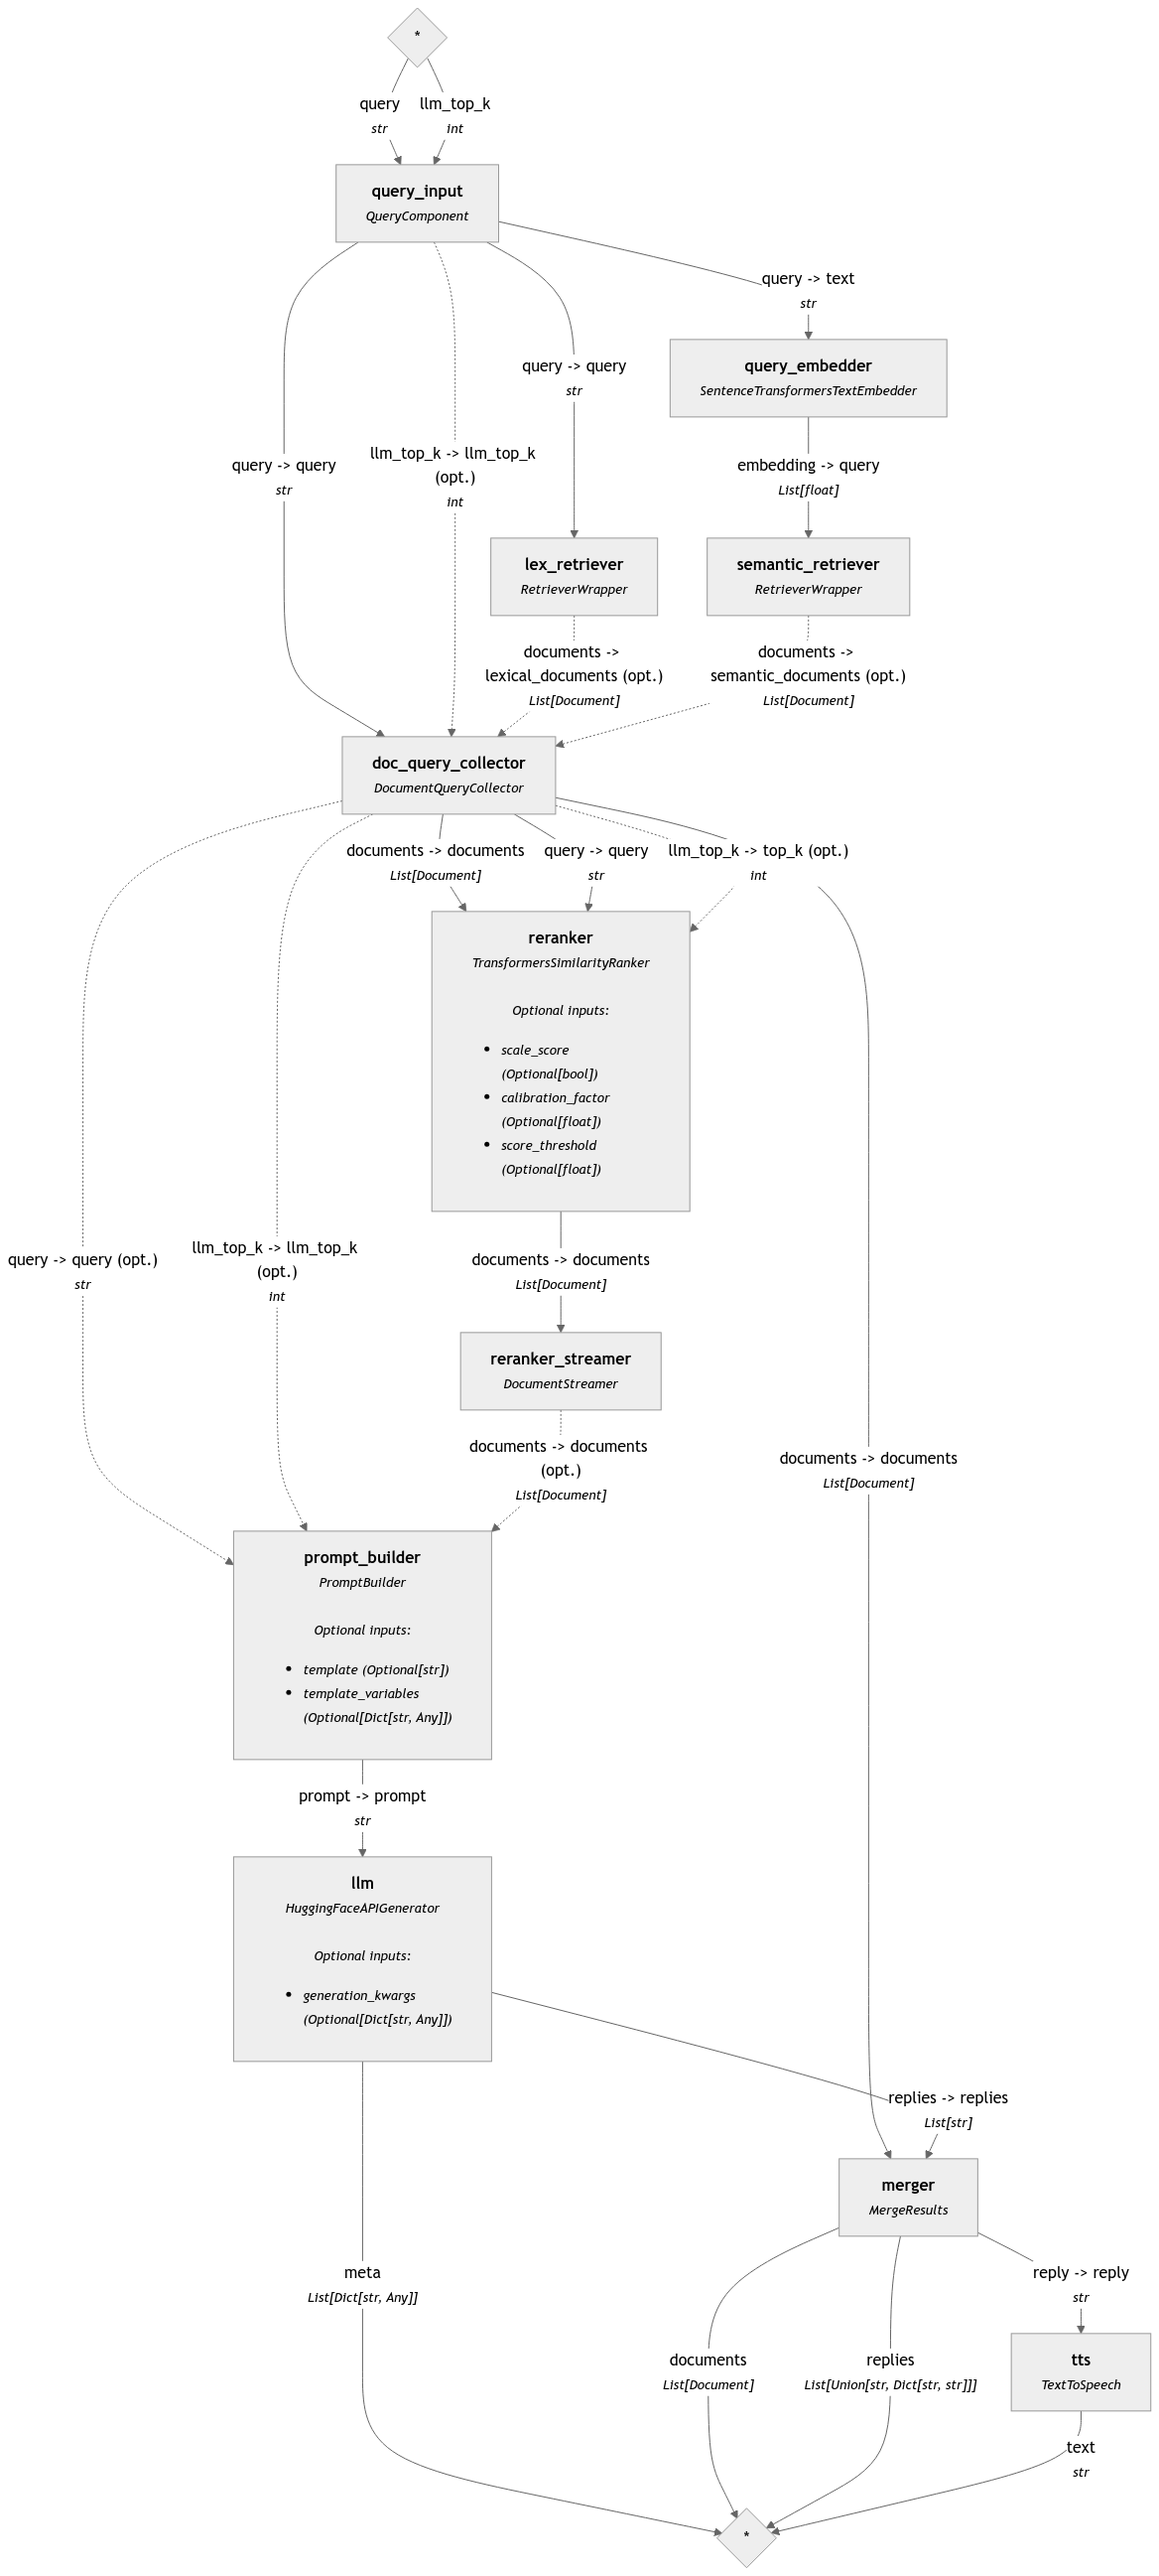
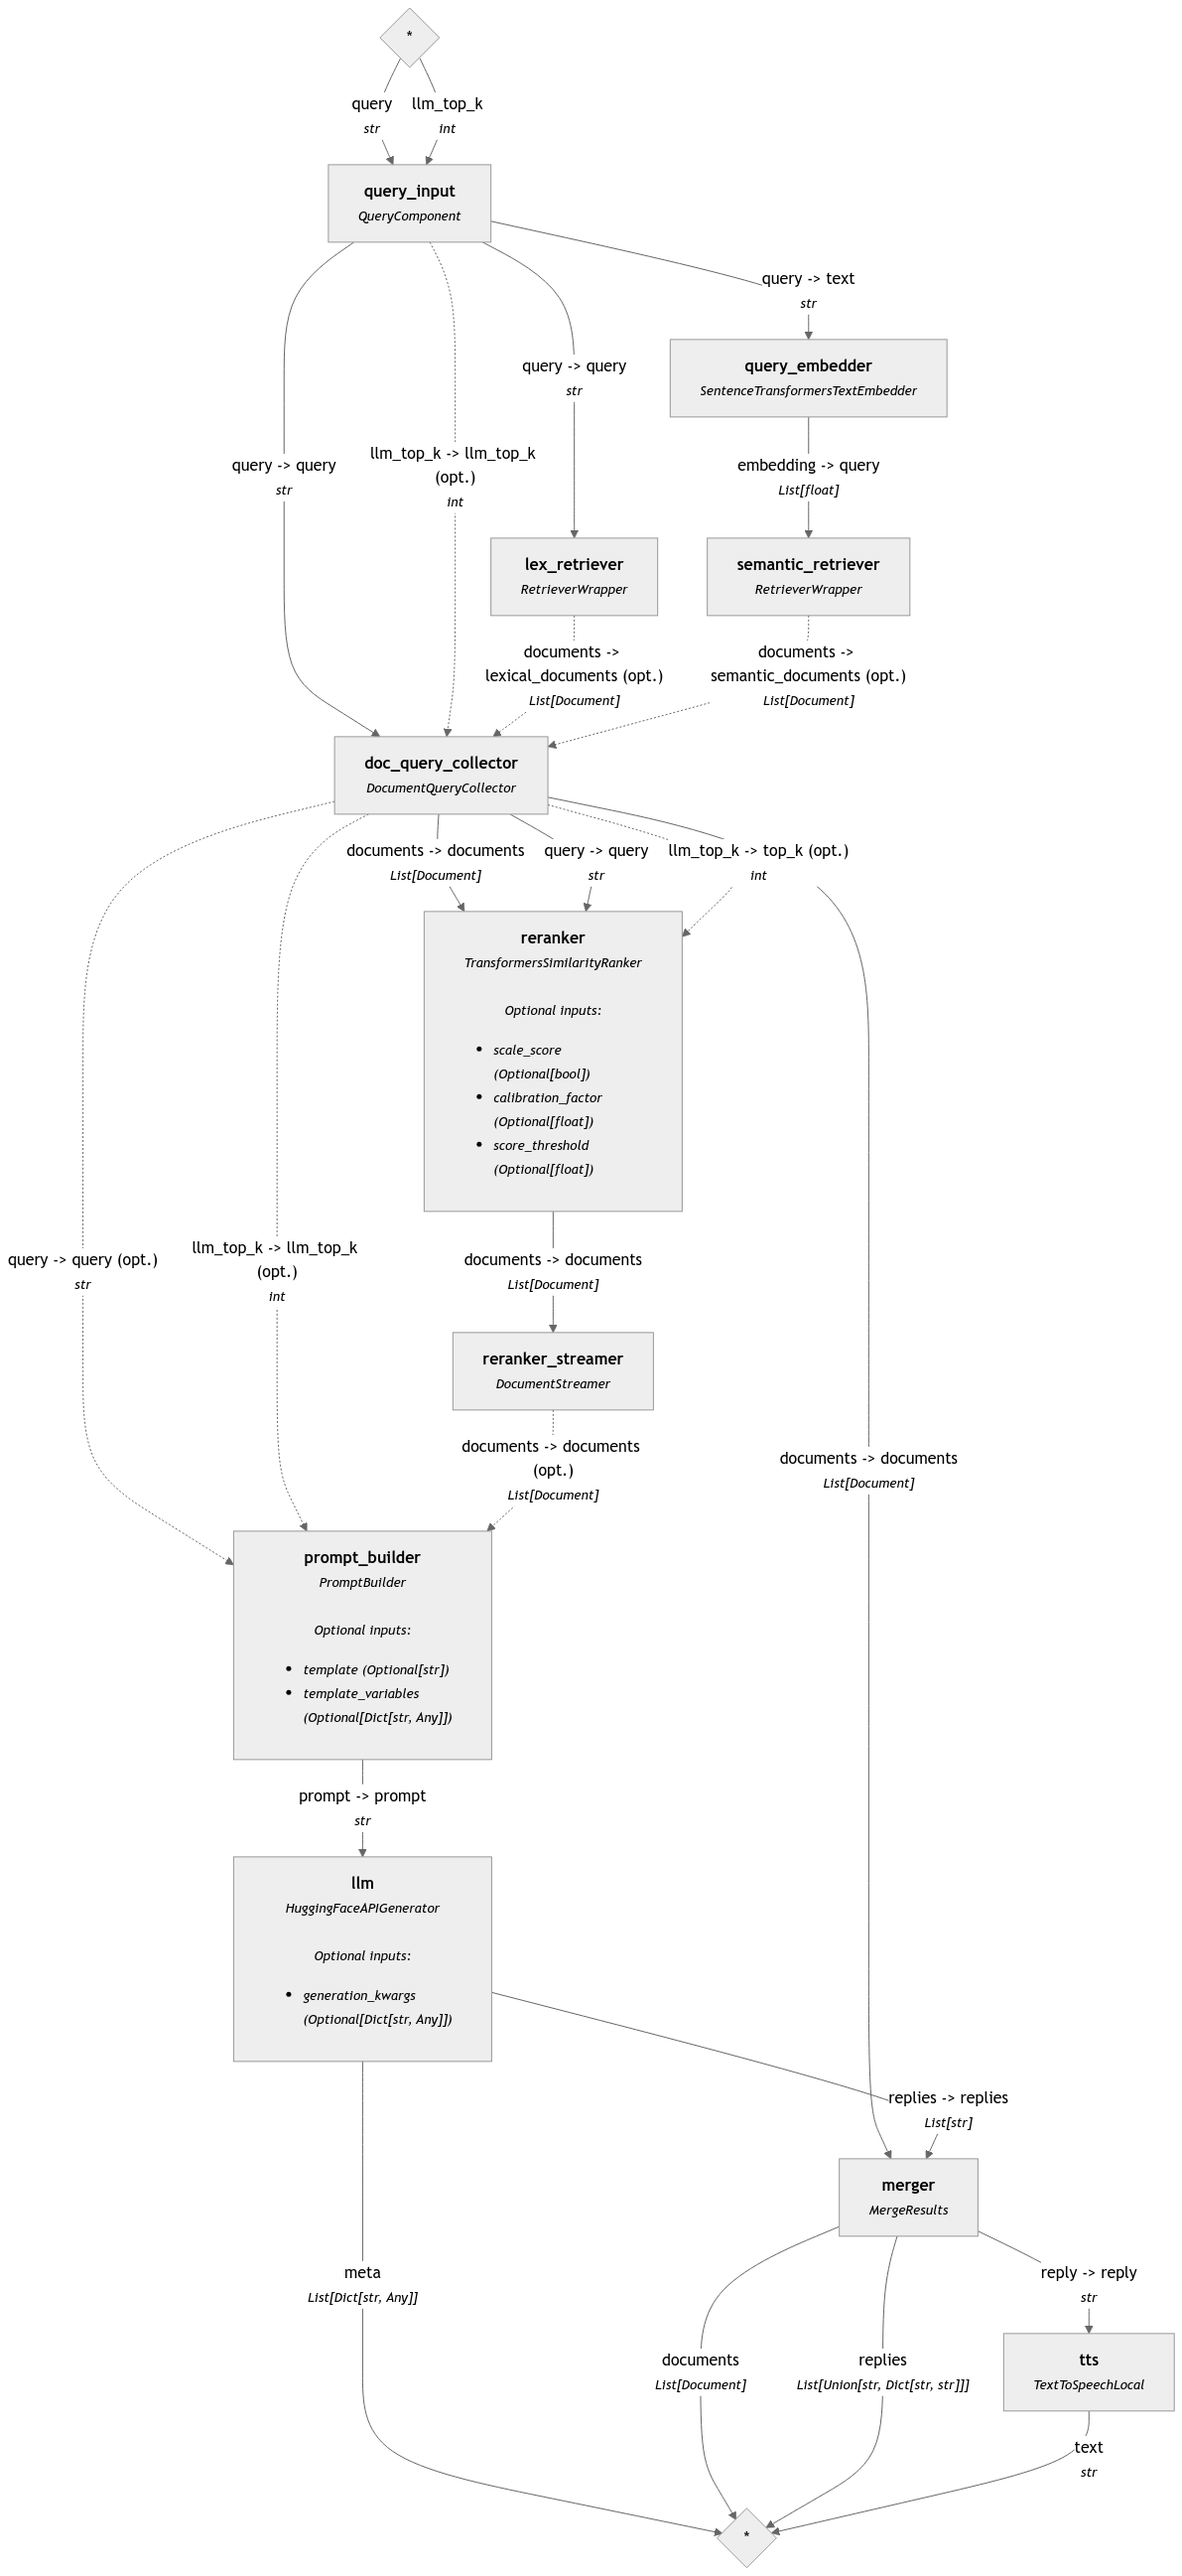
Attempting to do a Hugging Face API

diff --git a/custom_haystack_components.py b/custom_haystack_components.py
@@ -24,10 +24,12 @@ from pathlib import Path
 from pypdf import PdfReader, DocumentInformation
 import pymupdf4llm
 import pymupdf
-from transformers import pipeline, AutoProcessor, BarkModel
+from transformers import AutoProcessor, BarkModel
 import sounddevice as sd
 import numpy as np
 import torch
+import requests
+import generator_model as gen
 # import markdown
 
 
@@ -71,6 +73,46 @@ def _print_hierarchy(data: Dict[str, Any], level: int) -> None:
 @component
 class TextToSpeech:
     def __init__(self, model_name_or_path: str = "suno/bark-small"):
+        # Initialize with Hugging Face API token and model name
+        self.api_url = f"https://api-inference.huggingface.co/models/{model_name_or_path}"
+        hf_secret: str = gen.get_secret(r'D:\Documents\Secrets\huggingface_secret.txt')  # Put your path here
+        self.headers = {"Authorization": f"Bearer {hf_secret}"}
+
+    @component.output_types(text=str)
+    def run(self, reply: str) -> Dict[str, Any]:
+        # Split the input text into sentences
+        sentences: List[str] = re.split(r'(?<=[.!?])\s+', reply.strip())
+
+        # Process each sentence and request audio generation via API
+        for sentence in sentences:
+            payload = {
+                "inputs": {
+                    "text": sentence,
+                    "voice_preset": "v2/de_speaker_0"
+                }
+            }
+
+            # Send request to Hugging Face Inference API
+            response = requests.post(self.api_url, headers=self.headers, json=payload)
+            response.raise_for_status()  # Raise an error if the request fails
+
+            # Extract and process the audio output
+            audio_array = np.frombuffer(response.content, dtype=np.float32)
+            self._play_audio(audio_array)
+
+        # Return the original text
+        return {"text": reply}
+
+    @staticmethod
+    def _play_audio(audio_data: np.ndarray, sample_rate: int = 24000) -> None:
+        audio_data = audio_data.astype("float32")
+        sd.play(audio_data, samplerate=sample_rate)
+        sd.wait()  # Wait until the audio finishes playing
+
+
+@component
+class TextToSpeechLocal:
+    def __init__(self, model_name_or_path: str = "suno/bark-small"):
         # Initialize the processor
         self.device = "cuda" if torch.cuda.is_available() else "cpu"
         self.processor = AutoProcessor.from_pretrained(model_name_or_path, torch_dtype=torch.float16)
@@ -110,13 +152,6 @@ class TextToSpeech:
 
     @staticmethod
     def _play_audio(audio_data: np.ndarray, sample_rate: int = 24000) -> None:
-        """
-        Play audio data locally.
-
-        Args:
-            audio_data (np.ndarray): The audio data as a NumPy array.
-            sample_rate (int): The sample rate for playback.
-        """
         audio_data = audio_data.astype("float32")
         sd.play(audio_data, samplerate=sample_rate)
         sd.wait()  # Wait until the audio finishes playing

diff --git a/test5.py b/test5.py
@@ -1,0 +1,58 @@
+from huggingface_hub import InferenceClient
+import sounddevice as sd
+import numpy as np
+import generator_model as gen
+import requests
+
+hf_secret: str = gen.get_secret(r'D:\Documents\Secrets\huggingface_secret.txt')  # Put your path here
+
+# Set up the API inference endpoint
+model_id = "suno/bark-small"
+
+# Initialize the Hugging Face client
+client = InferenceClient(token=hf_secret)
+
+
+# Function to check model health
+def check_model_health(model_id: str):
+    url = f"https://api-inference.huggingface.co/models/{model_id}"
+    headers = {"Authorization": f"Bearer {hf_secret}"}
+
+    try:
+        response = requests.get(url, headers=headers)
+        if response.status_code == 200:
+            print(f"Model {model_id} is available!")
+        else:
+            print(f"Model {model_id} returned status code {response.status_code}: {response.text}")
+    except requests.exceptions.RequestException as e:
+        print(f"Error checking model health: {e}")
+
+
+# Check the model health before making inference requests
+check_model_health(model_id)
+
+# Loop through voice presets
+for i in range(2):
+    voice_preset = f"v2/de_speaker_{i}"
+    print(f"Sending request with payload: {{'text': 'My name is Karl Popper. The philosopher of epistemology.'}}")
+
+    # Payload for inference (ensure this is correctly formatted)
+    payload = {"text": "My name is Karl Popper. The philosopher of epistemology."}
+
+    try:
+        # Send inference request to Hugging Face API
+        response = client.post(json=payload)  # Only send the payload as JSON
+
+        # If the response is raw audio data (bytes)
+        if isinstance(response, bytes):
+            print(f"Received audio data for voice preset {voice_preset}.")
+            audio_data = response  # Raw audio data (in bytes)
+            # Convert bytes to numpy array and play using sounddevice
+            audio_array = np.frombuffer(audio_data, dtype=np.float32)  # Convert byte data to numpy array
+            sample_rate = 24000  # Adjust the sample rate if necessary
+            sd.play(audio_array, samplerate=sample_rate)
+            sd.wait()
+        else:
+            print(f"Error: Unexpected response format for voice preset {voice_preset}.")
+    except Exception as e:
+        print(f"Error while processing preset {voice_preset}: {str(e)}")

diff --git a/rag_pipeline.py b/rag_pipeline.py
@@ -27,7 +27,8 @@ import generator_model as gen
 from enum import Enum
 import textwrap
 from custom_haystack_components import (MergeResults, DocumentQueryCollector, RetrieverWrapper, print_documents,
-                                        QueryComponent, print_debug_results, DocumentStreamer, TextToSpeech)
+                                        QueryComponent, print_debug_results, DocumentStreamer, TextToSpeechLocal,
+                                        TextToSpeech)
 
 
 class SearchMode(Enum):
@@ -377,7 +378,7 @@ class RagPipeline:
 
         if self._use_voice and not self._can_stream():
             # Add the text to speech component
-            tts_node = TextToSpeech()
+            tts_node = TextToSpeechLocal()
             rag_pipeline.add_component("tts", tts_node)
             rag_pipeline.connect("merger.reply", "tts.reply")
 
